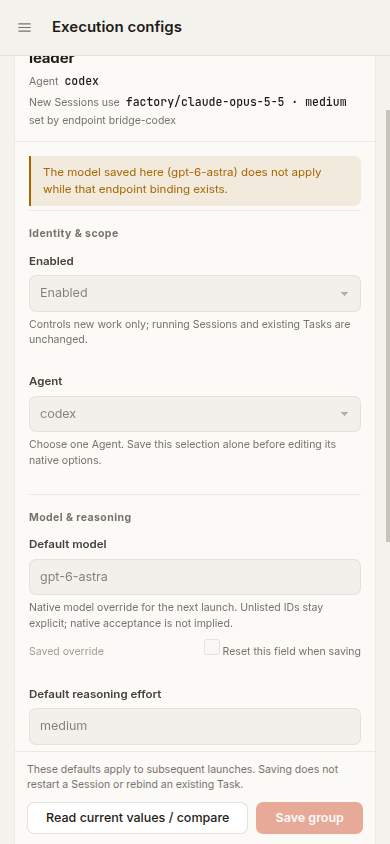
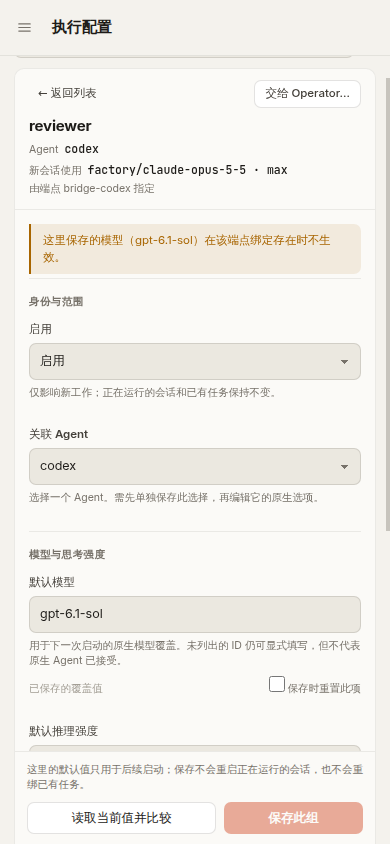
fix(web): keep an opened detail below the sticky top bar on narrow screens

diff --git a/src/web/assets/styles/views/settings.ts b/src/web/assets/styles/views/settings.ts
@@ -140,6 +140,8 @@ export const SETTINGS_STYLES = `
 }
 
 .agent-inspector{min-width:0;border:1px solid var(--line);border-radius:var(--r-lg);background:var(--surface);overflow:clip}
+/* Opening a detail on a narrow screen scrolls it below the sticky top bar. */
+.agent-inspector,.access-detail{scroll-margin-top:calc(var(--header-h) + 12px)}
 .agent-inspector-content{min-width:0}
 .agent-inspector-form{display:grid;gap:0;padding:0;min-width:0}
 .agent-inspector-canvas{display:grid;gap:0;padding:6px 18px 18px;min-width:0}
